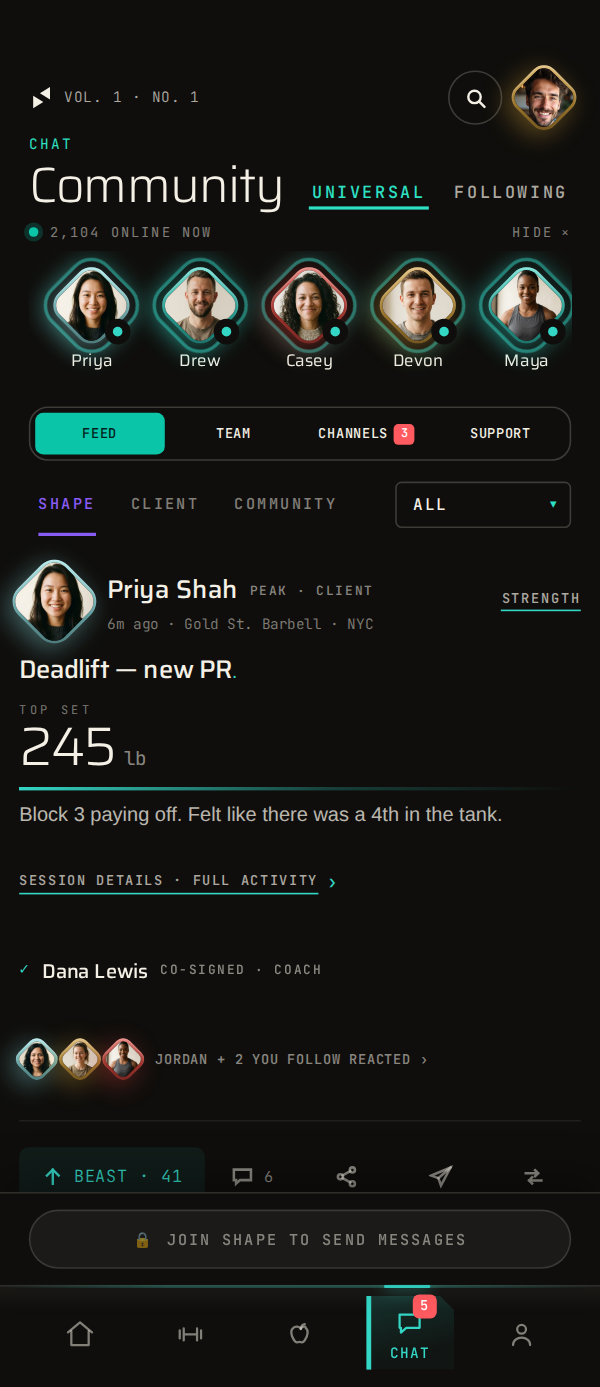
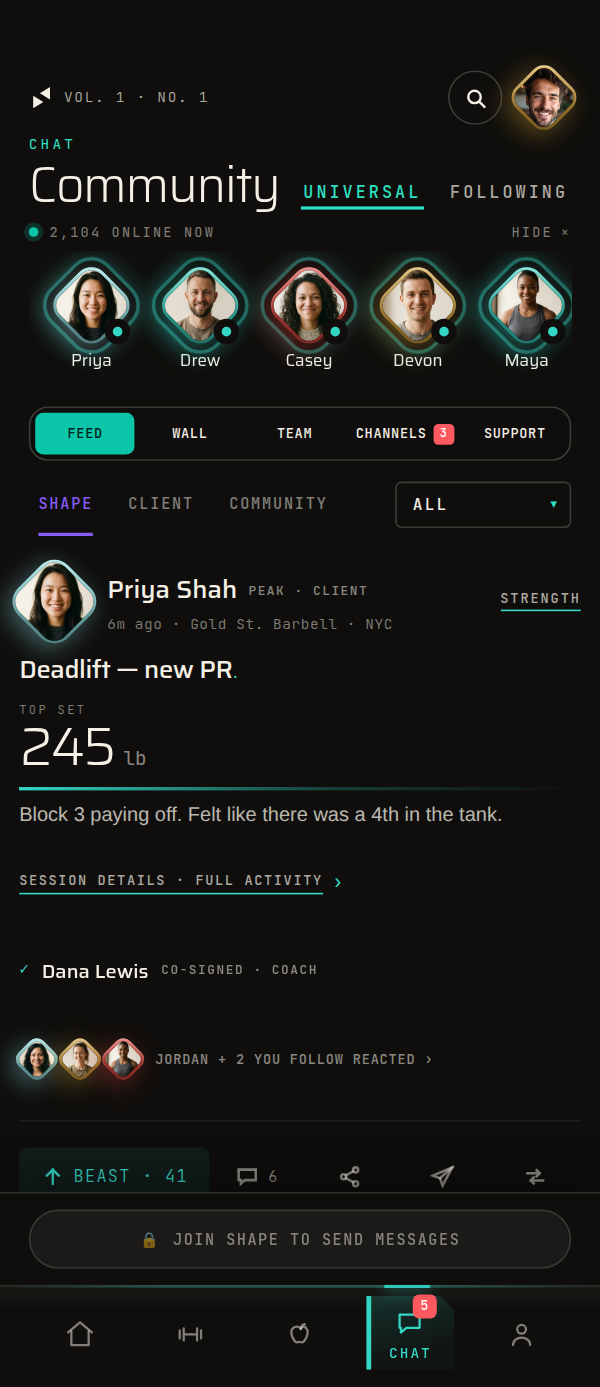
newdesign: re-shoot the app tour against the Wall, and add it as a tenth screen
The nine getapp-*.png were refreshed this morning (ea72dfc) BEFORE the Wall
existed, so getapp-community-v2.png showed a four-across pill row while the
app now ships five (Feed / Wall / Team / Channels / Support). Re-captured
from the build in public/m at the same 600x1387 (375x867 @ dSF 1.6, clock
pinned to Fri 2026-09-11 09:30 New York, is-native-app set so there is no
desktop bezel), and the Wall joins GetApp.html as step 10 of 10.

The two screens are reached by the app's own deep links (shape:goCommunity /
shape:goWall) because the footer tab bar is icon-only; the demo banner is
dismissed by aria-label, since the button's innerText is the glyph.

The ?v= bump IS required for an image: build-newdesign.mjs rewrites script
tags only, so a same-named PNG's hand-written ?v is its only cache key.

Verified: npm test 2860/2860, tsc 0, the newdesign precompile check, both
PNGs at 600x1387, and headless renders of GetApp.html at 1440/390px and
index.html with no 4xx and no page errors.

Claude-Session: https://claude.ai/code/session_011DRXi92mneHsUgLWtMBMtw

diff --git a/public/newdesign/GetApp.html b/public/newdesign/GetApp.html
@@ -299,7 +299,8 @@
     { kind: "SCORE",    title: "One number that matters.",     body: "A five-tier ladder rewarding consistency across training, nutrition, and recovery. It only moves when you show up.", img: "/newdesign/getapp-score-v3.png?v=20260910", dark: true },
     { kind: "PROFILE",  title: "A profile that's alive.",      body: "Your climb, your Shape Score, PRs and playlists — a living page that grows as you do. Make it public or keep it private; it's yours.", img: "/newdesign/getapp-profile-v2.png?v=20260910", dark: true },
     { kind: "RADIO",    title: "Music built for movement.",    body: "Live mixes curated by your coach. Each track's BPM syncs with your wearable — when the two lock in, your pace becomes the song.", img: "/newdesign/getapp-radio-v3.png?v=20260910", dark: true },
-    { kind: "COMMUNITY", title: "The social side of strong.",   body: "See who's training now, cheer a friend's PR, and post your own. A live feed, member channels, and coach co-signs turn solo workouts into a community — the energy of a gym floor, wherever you train.", img: "/newdesign/getapp-community-v2.png?v=20260910", dark: false }
+    { kind: "COMMUNITY", title: "The social side of strong.",   body: "See who's training now, cheer a friend's PR, and post your own. A live feed, member channels, and coach co-signs turn solo workouts into a community — the energy of a gym floor, wherever you train.", img: "/newdesign/getapp-community-v2.png?v=20260910b", dark: false },
+    { kind: "THE WALL", title: "Records, on the wall.",         body: "Every personal best — a lift, a run, a ride — lands on a board your people can see. A record posted with its workout carries the session under it: the top set, the heart rate you did it at, your coach's co-sign. Anything your own logs know that the wall doesn't, the app hands you a button to put up.", img: "/newdesign/getapp-wall-v1.png?v=20260910b", dark: true }
   ];
 
   var i = 0;

diff --git a/public/newdesign/index.html b/public/newdesign/index.html
@@ -787,7 +787,7 @@
     </div>
     <div class="beat" data-i="3">
       <div><div class="ix">04 — Community</div><h2>The social side of <b>strong.</b></h2><p>See who's training now, cheer a friend's PR, and post your own. A live feed, member channels, and coach co-signs — the energy of a gym floor, wherever you train.</p></div>
-      <div class="vis dark"><div class="scr"><img class="on" src="/newdesign/getapp-community-v2.png?v=20260910" alt="" /></div></div>
+      <div class="vis dark"><div class="scr"><img class="on" src="/newdesign/getapp-community-v2.png?v=20260910b" alt="" /></div></div>
     </div>
     <div class="beat" data-i="4">
       <div><div class="ix">05 — Profile</div><h2>A profile that <b>climbs with you.</b></h2><p>Your public page is alive — your climb, your Shape Score, your PRs and playlists. Share it, or keep it private. It's yours.</p></div>

diff --git a/docs/WORKLOG.md b/docs/WORKLOG.md
@@ -495,6 +495,45 @@ several are marked SHIPPED in their own text.
 [early-June, Cycles 2–5](WORKLOG-ARCHIVE-2026-06-cycles-2-5.md).
 Append new entries at the top, under this note.
 
+### 2026-09-10 — The site's app tour is re-shot against the Wall, and gains it as a tenth screen
+
+- **Owner: *"well make sure the new screenshots include the new chat design"*.** The nine
+  `getapp-*.png` the website shows were refreshed this morning (`ea72dfc`) — *before* the Wall
+  existed — so `getapp-community-v2.png` showed a **four-across** pill row (Feed · Team ·
+  Channels · Support) while the app now ships **five**. Re-captured from the build in
+  `public/m`, and the Wall joins the walkthrough as **step 10 of 10** —
+  `getapp-wall-v1.png`, new.
+- **The geometry is the site's, not a choice.** Every image the pages show is **600×1387**,
+  which is 375×867 at `deviceScaleFactor: 1.6`; the clock is pinned to **Friday 2026-09-11
+  09:30 New York** so the demo member is on a strength day, matching the rest of the set.
+  `is-native-app` is set from an init script (the class `main.jsx` adds under Capacitor and
+  `isNativeBSApp()` reads), so there is no desktop bezel to crop.
+- ⚠ **THE TWO SCREENS ARE REACHED BY THE APP'S OWN DEEP LINKS, BECAUSE THE TAB BAR HAS NO
+  TEXT TO CLICK.** The footer is icon-only, so a label-driven walker gets into the app and
+  then stops. `shape:goCommunity` and `shape:goWall` are the events the shell already listens
+  for — the second is what the Home bulletin fires — so driving them captures the screens
+  *and* exercises that wiring. The entry flow itself stays adaptive (a stored locale skips the
+  picker, so a fixed script is the wrong shape).
+- ⚠ **AND THE DEMO BANNER IS DISMISSED BY `aria-label`, NOT BY ITS TEXT.** `BSPreviewBanner`'s
+  close button renders the glyph **✕** and carries `aria-label="Dismiss"`, so a walker reading
+  `innerText || aria-label` sees the glyph and never the word — the first run captured both
+  screens with *PREVIEW · DEMO DATA* sitting over the plate. Every other image on the site is
+  taken with it dismissed.
+- ⚠ **THE `?v=` BUMP IS REQUIRED HERE, WHICH IS NOT THE CASE FOR A `.jsx`.**
+  `scripts/build-newdesign.mjs` rewrites **script tags only** — it never touches an image ref —
+  so a same-named PNG's hand-written `?v` is the only cache key it has. `getapp-community-v2`
+  goes to `?v=20260910b` on both pages that show it; the eight unchanged files keep theirs.
+- **The homepage's five-beat loop is deliberately left at five.** Adding a sixth means
+  `.loopbeats{height:525vh}` → 630vh — a page a fifth longer, which is a design call the owner
+  has not made. Beat 04 carries the refreshed Community capture; the Wall is on the
+  walkthrough, where the carousel is derived from `STEPS.length` and a tenth entry costs
+  nothing.
+- **Verified:** `npm test` **2860/2860** · `tsc --noEmit` 0 · the newdesign precompile check ·
+  both PNGs re-measured at **600×1387** · and headless renders of `GetApp.html` at 1440 and
+  390px (step 10 of 10, kind *THE WALL*, the Wall image on screen at its natural size, no
+  horizontal overflow, no 4xx, no page errors) and of `index.html` (all five beat images load
+  at 600×1387, beat 04 carrying the new cache key). No migration.
+
 ### 2026-09-10 — The Wall: the PR ledger becomes a surface, and the plate is the feed's own card
 
 - **The review's §7, built for the app only** ([`REVIEW-2026-09-10-index-page.md`](REVIEW-2026-09-10-index-page.md)

diff --git a/docs/REVIEW-2026-09-10-index-page.md b/docs/REVIEW-2026-09-10-index-page.md
@@ -458,6 +458,16 @@ captures with the live element ringed, labelled *the app today*; the Wall previe
 the app's actual Chat chrome (title row, online rail, the Feed · Team · Channels pills).
 Everything else on the board that looks like the app is a proposed widget, not a screen.
 
+⚠ **RE-SHOT AGAIN THE SAME DAY, AFTER THE WALL SHIPPED.** The refresh above was captured
+*before* §7 was built, so `getapp-community-v2.png` showed a **four-across** pill row
+(Feed · Team · Channels · Support) while the app now ships five. It is re-captured from the
+build in `public/m` at the same 600×1387 (`?v=20260910b` on both pages that show it), and
+the Wall joins `GetApp.html` as **step 10 of 10** — `getapp-wall-v1.png`, new. The two
+screens are reached by `shape:goCommunity` / `shape:goWall` rather than by clicking: the
+footer tab bar is icon-only, so a label-driven walker gets into the app and then stops. The
+homepage's five-beat loop stays at five (a sixth is `.loopbeats` 525vh → 630vh, a page a
+fifth longer, which is a design call, not a re-shoot).
+
 **Not changed:** the nine other `getapp-*` files no page references (`chat-v2/v3`, `eat-v2`,
 `home-v2/v4`, `home-mobile-light-v5`, `personalize-v2`, `recipes-v2`, `workout-v2`) are dead
 assets; deleting them is a separate tidy.
